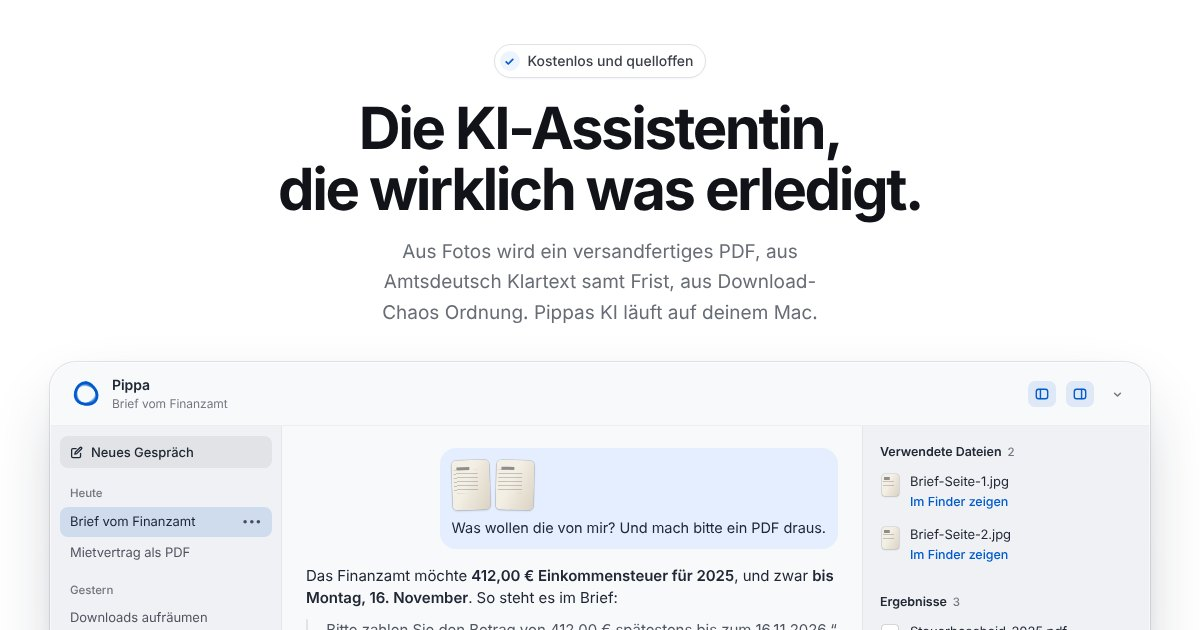
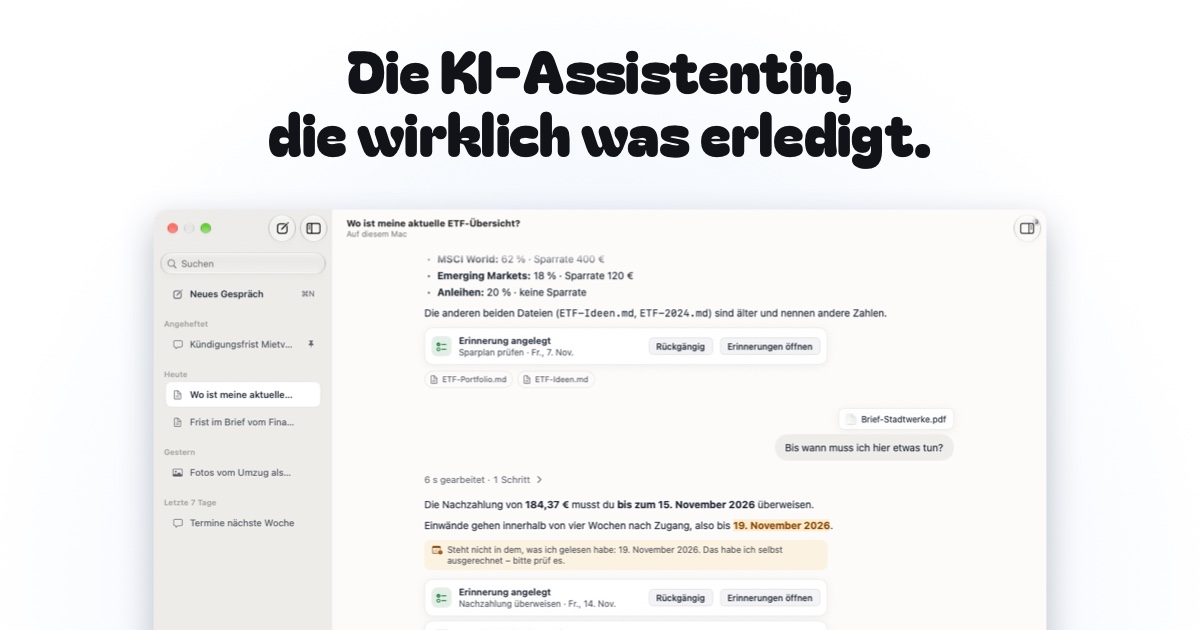
Render the social preview images from live snapshots
scripts/render-og.swift (AppKit only) draws the page headline in Bagel Fat
One over a real Pippa window from PIPPA_SNAPSHOT_LIVE snapshots and writes
site/og.jpg and site/og-en.jpg at 1200x630, each under 150 KB. The call is
documented under "Website" in docs/development.md.

diff --git a/scripts/render-og.swift b/scripts/render-og.swift
@@ -1,0 +1,120 @@
+// Renders the website's social preview images, site/og.jpg (German) and site/og-en.jpg (English): the page's headline
+// in Bagel Fat One over a real Pippa window from the live snapshots, which show made-up sample data.
+//
+//   swift scripts/render-og.swift <German snapshot folder> <English snapshot folder>
+//
+// Each folder comes from `PIPPA_SNAPSHOT_LIVE=1 Pippa --snapshot <folder>`; the German one from an app bundle started
+// with `-AppleLanguages '(de)'` (see docs/development.md, "Website"). AppKit only, no packages. Output: 1200×630 JPEG,
+// each under 150 KB.
+import AppKit
+import CoreText
+
+let width = 1200, height = 630
+let maxBytes = 150_000
+let scene = "conversation-light.png"
+let root = URL(fileURLWithPath: #filePath).deletingLastPathComponent().deletingLastPathComponent()
+let fontURL = root.appendingPathComponent("site/fonts/bagel-fat-one.ttf")
+
+let arguments = CommandLine.arguments.dropFirst()
+guard arguments.count == 2 else {
+    FileHandle.standardError.write(Data("usage: swift scripts/render-og.swift <German snapshot folder> <English snapshot folder>\n".utf8))
+    exit(2)
+}
+let folders = Array(arguments).map { URL(fileURLWithPath: $0, isDirectory: true) }
+
+var registerError: Unmanaged<CFError>?
+if !CTFontManagerRegisterFontsForURL(fontURL as CFURL, .process, &registerError) {
+    FileHandle.standardError.write(Data("Could not load \(fontURL.path)\n".utf8))
+    exit(1)
+}
+
+let pages: [(lines: [String], snapshots: URL, output: String)] = [
+    (["Die KI-Assistentin,", "die wirklich was erledigt."], folders[0], "site/og.jpg"),
+    (["The AI assistant", "that actually gets things done."], folders[1], "site/og-en.jpg"),
+]
+
+let ink = NSColor(srgbRed: 0x11 / 255, green: 0x13 / 255, blue: 0x18 / 255, alpha: 1)
+let accent = NSColor(srgbRed: 0, green: 0x5b / 255, blue: 0xcd / 255, alpha: 1)
+
+/// The headline font at the largest size (up to 58 pt) at which every line fits 1080 px.
+func headlineFont(for lines: [String]) -> NSFont {
+    var size: CGFloat = 58
+    while size > 30 {
+        let font = NSFont(name: "BagelFatOne-Regular", size: size)!
+        if lines.allSatisfy({ ($0 as NSString).size(withAttributes: [.font: font]).width <= 1080 }) { return font }
+        size -= 1
+    }
+    return NSFont(name: "BagelFatOne-Regular", size: size)!
+}
+
+func render(lines: [String], window: NSImage) -> NSBitmapImageRep {
+    let rep = NSBitmapImageRep(bitmapDataPlanes: nil, pixelsWide: width, pixelsHigh: height, bitsPerSample: 8,
+                               samplesPerPixel: 4, hasAlpha: true, isPlanar: false, colorSpaceName: .deviceRGB,
+                               bytesPerRow: 0, bitsPerPixel: 0)!
+    rep.size = NSSize(width: width, height: height)
+    NSGraphicsContext.saveGraphicsState()
+    let context = NSGraphicsContext(bitmapImageRep: rep)!
+    NSGraphicsContext.current = context
+    context.imageInterpolation = .high
+    let canvas = NSRect(x: 0, y: 0, width: width, height: height)
+
+    // A white page with the soft blue light the website shows under Pippa's window.
+    NSColor.white.setFill()
+    canvas.fill()
+    let glow = NSGradient(colors: [accent.withAlphaComponent(0.16), accent.withAlphaComponent(0.05), accent.withAlphaComponent(0)],
+                          atLocations: [0, 0.55, 1], colorSpace: .sRGB)!
+    glow.draw(fromCenter: NSPoint(x: 600, y: 40), radius: 0, toCenter: NSPoint(x: 600, y: 40), radius: 620, options: [])
+
+    // The headline, centered, two lines.
+    let font = headlineFont(for: lines)
+    let attributes: [NSAttributedString.Key: Any] = [.font: font, .foregroundColor: ink]
+    let lineHeight = font.pointSize * 1.08
+    // Baseline of the first line: the cap height sits 52 px below the top edge.
+    var baseline = CGFloat(height) - 52 - font.capHeight
+    for line in lines {
+        let text = line as NSString
+        let lineWidth = text.size(withAttributes: attributes).width
+        // draw(at:) puts the point at the bottom of the line box, which is the baseline plus the descender.
+        text.draw(at: NSPoint(x: (CGFloat(width) - lineWidth) / 2, y: baseline + font.descender), withAttributes: attributes)
+        baseline -= lineHeight
+    }
+
+    // The window, scaled down and cut off by the bottom edge, with a soft shadow.
+    let scale: CGFloat = 0.72
+    let size = NSSize(width: window.size.width * scale, height: window.size.height * scale)
+    let top = baseline + lineHeight + font.descender - 36
+    let frame = NSRect(x: (CGFloat(width) - size.width) / 2, y: top - size.height, width: size.width, height: size.height)
+    NSGraphicsContext.saveGraphicsState()
+    let shadow = NSShadow()
+    shadow.shadowColor = NSColor(srgbRed: 22 / 255, green: 34 / 255, blue: 56 / 255, alpha: 0.28)
+    shadow.shadowBlurRadius = 36
+    shadow.shadowOffset = NSSize(width: 0, height: -14)
+    shadow.set()
+    window.draw(in: frame, from: .zero, operation: .sourceOver, fraction: 1)
+    NSGraphicsContext.restoreGraphicsState()
+
+    NSGraphicsContext.restoreGraphicsState()
+    return rep
+}
+
+/// JPEG at the highest quality that stays under the size limit.
+func jpeg(_ rep: NSBitmapImageRep) -> Data {
+    var quality = 0.9
+    while true {
+        let data = rep.representation(using: .jpeg, properties: [.compressionFactor: quality])!
+        if data.count < maxBytes || quality <= 0.4 { return data }
+        quality -= 0.04
+    }
+}
+
+for page in pages {
+    let file = page.snapshots.appendingPathComponent(scene)
+    guard let window = NSImage(contentsOf: file) else {
+        FileHandle.standardError.write(Data("Missing \(file.path); run Pippa --snapshot first.\n".utf8))
+        exit(1)
+    }
+    let data = jpeg(render(lines: page.lines, window: window))
+    let output = root.appendingPathComponent(page.output)
+    try data.write(to: output)
+    print("\(page.output): \(width)×\(height), \(data.count / 1024) KB")
+}

diff --git a/docs/development.md b/docs/development.md
@@ -362,6 +362,18 @@ node scripts/check-site.cjs           # content and behavior checks
 node scripts/check-site-launch.cjs    # publication gate: required files
 ```
 
+**Social preview images.** `site/og.jpg` and `site/og-en.jpg` (1200×630, under 150 KB) show the page's headline in
+Bagel Fat One over a real Pippa window from the live snapshots, which use made-up sample data. Render the German
+window from an app bundle with `-AppleLanguages '(de)'`: the bare debug binary has no bundle localizations and always
+draws in English. Look at the result before committing: the transcript's scroll position can differ between snapshot
+runs. Then bump `?v=` on every og/twitter image URL in both pages so link previews refresh.
+
+```sh
+PIPPA_SNAPSHOT_LIVE=1 dist/Pippa.app/Contents/MacOS/Pippa --snapshot "$TMPDIR/og-de" -AppleLanguages '(de)'
+PIPPA_SNAPSHOT_LIVE=1 app/.build/debug/Pippa --snapshot "$TMPDIR/og-en"
+swift scripts/render-og.swift "$TMPDIR/og-de" "$TMPDIR/og-en"   # writes site/og.jpg and site/og-en.jpg
+```
+
 ### Provider integration checks
 
 ```sh
